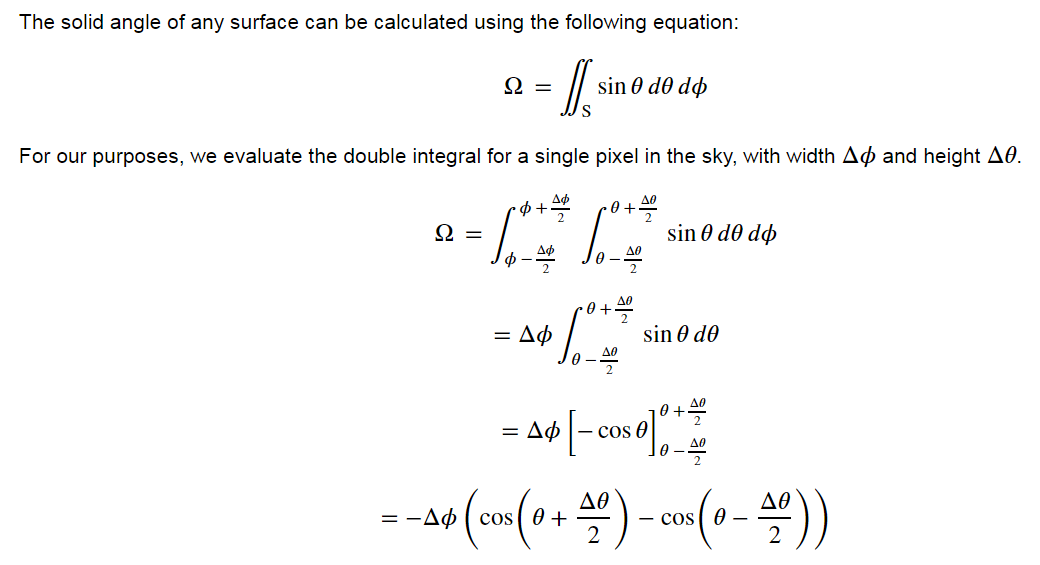
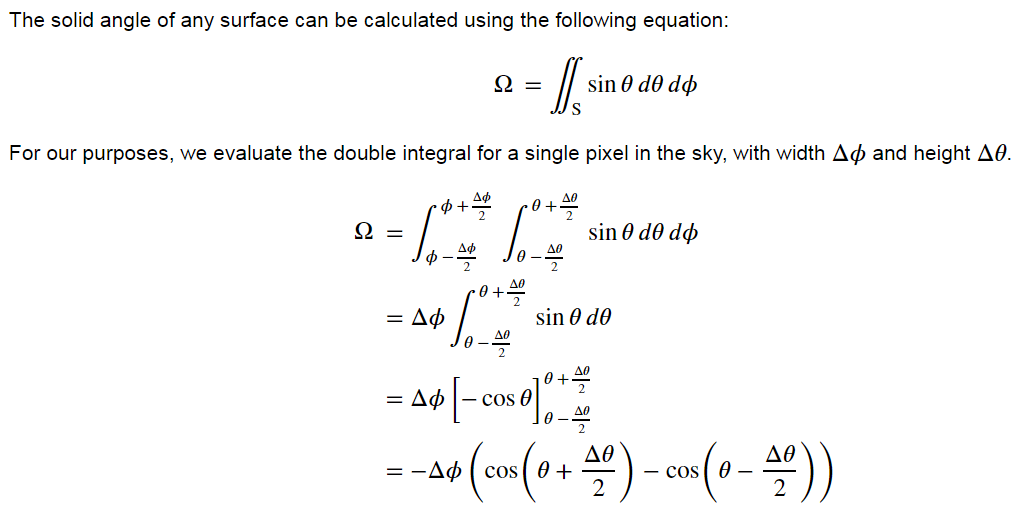
Update readme and static images

diff --git a/README.md b/README.md
@@ -31,52 +31,16 @@ The mosaic images are rectangular in shape. Of course, the sky itself is not. In
 
 #### Solid Angle Derivation
 
-The solid angle of any surface can be calculated using the following equation:
+<img src="https://github.com/kkarnes/skyBrightnessMetrics/blob/master/static/solid_angle_derivation_1.PNG" alt="Derivation of solid angle formula">
 
-![Derivation of solid angle formula](https://github.com/kkarnes/skyBrightnessMetrics/blob/master/static/solid_angle_1.PNG)
+<img src="https://github.com/kkarnes/skyBrightnessMetrics/blob/master/static/solid_angle_derivation_2.PNG" alt="Derivation of solid angle formula">
 
-For our purposes, we evaluate the double integral for a single pixel in the sky, with width &Delta;&#981; and height &Delta;&theta;.
-
-![Derivation of solid angle formula](https://github.com/kkarnes/skyBrightnessMetrics/blob/master/static/solid_angle_2.PNG)
-
-![Derivation of solid angle formula](https://github.com/kkarnes/skyBrightnessMetrics/blob/master/static/solid_angle_3.PNG)
-
-![Derivation of solid angle formula](https://github.com/kkarnes/skyBrightnessMetrics/blob/master/static/solid_angle_4.PNG)
-
-![Derivation of solid angle formula](https://github.com/kkarnes/skyBrightnessMetrics/blob/master/static/solid_angle_5.PNG)
-
-This equation can be simplified by making two substitutions using the cosine sum and difference formulas:
-
-![Derivation of solid angle formula](https://github.com/kkarnes/skyBrightnessMetrics/blob/master/static/solid_angle_6.PNG)
-
-![Derivation of solid angle formula](https://github.com/kkarnes/skyBrightnessMetrics/blob/master/static/solid_angle_7.PNG)
-
-![Derivation of solid angle formula](https://github.com/kkarnes/skyBrightnessMetrics/blob/master/static/solid_angle_8.PNG)
-
-&Delta;&theta; = 0.05&deg;, so &Delta;&theta;/2 is small. Therefore, we can use the small angle approximation to say that sin(&Delta;&theta;)/2 &#8776; &Delta;&theta;/2.
-
-![Derivation of solid angle formula](https://github.com/kkarnes/skyBrightnessMetrics/blob/master/static/solid_angle_9.PNG)
-
-![Derivation of solid angle formula](https://github.com/kkarnes/skyBrightnessMetrics/blob/master/static/solid_angle_10.PNG)
-
-&Delta;&theta; = 0.05&deg; and &Delta;&#981; = 0.05&deg;, so:
-
-![Derivation of solid angle formula](https://github.com/kkarnes/skyBrightnessMetrics/blob/master/static/solid_angle_11.PNG)
-
-<!-- include note: In the script, these two factors of the solid angle are calculated separately. Solid angle is first defined as 0.05 degrees squared, and then later is multiplied by sin(theta) during the horizontal and vertical illuminance calculations separately. -->
-
-<!---
-Show where/how it's implemented in the code:
-The first two lines of `get_horiz_illum()` multiply the sky illuminance (E<sub>i</sub>)by a correction factor that includes both a cos(theta) and sin(theta) factor.
-```
-correction_factor = n.cos(n.deg2rad(theta)) * n.sin(n.deg2rad(theta))
-E_h = E_i * correction_factor
-```
+<!-- include note: In the script, these two factors of the solid angle are calculated separately. Solid angle is first defined as 0.05 degrees squared, and then later is multiplied by sin(theta) during the horizontal and vertical illuminance calculations separately.
 This is done in two separate steps simply due to the fact that the shape of the theta array is not the same for the horizontal and vertical illuminance calculations (theta values range to 90 and 96 degrees respectively).
 --->
 
 ### 3. Calculating Illuminance
-One of the inputs to this script is a mosaic image raster that contains sky brightness values in nanolamberts (nL). Once the values have been read into a 2D numpy array, these sky brightness values are converted from nanolamberts to sky brightness luminance values, b<sub>i</sub>, in &mu;cd m<sup>-2</sup>. Illuminance (in millilux) can be calculated from b<sub>i</sub> using the equation below.
+One input to this script is a mosaic image raster that contains sky brightness values in nanolamberts (nL). Once the values have been read into a 2D numpy array, these sky brightness values are converted from nanolamberts to sky brightness luminance values, b<sub>i</sub>, in &mu;cd m<sup>-2</sup>. Illuminance can be calculated from b<sub>i</sub> using the equation below.
 
 <img src="https://github.com/kkarnes/skyBrightnessMetrics/blob/master/static/E_i.PNG" alt="Illuminance equation" height="90">
 
